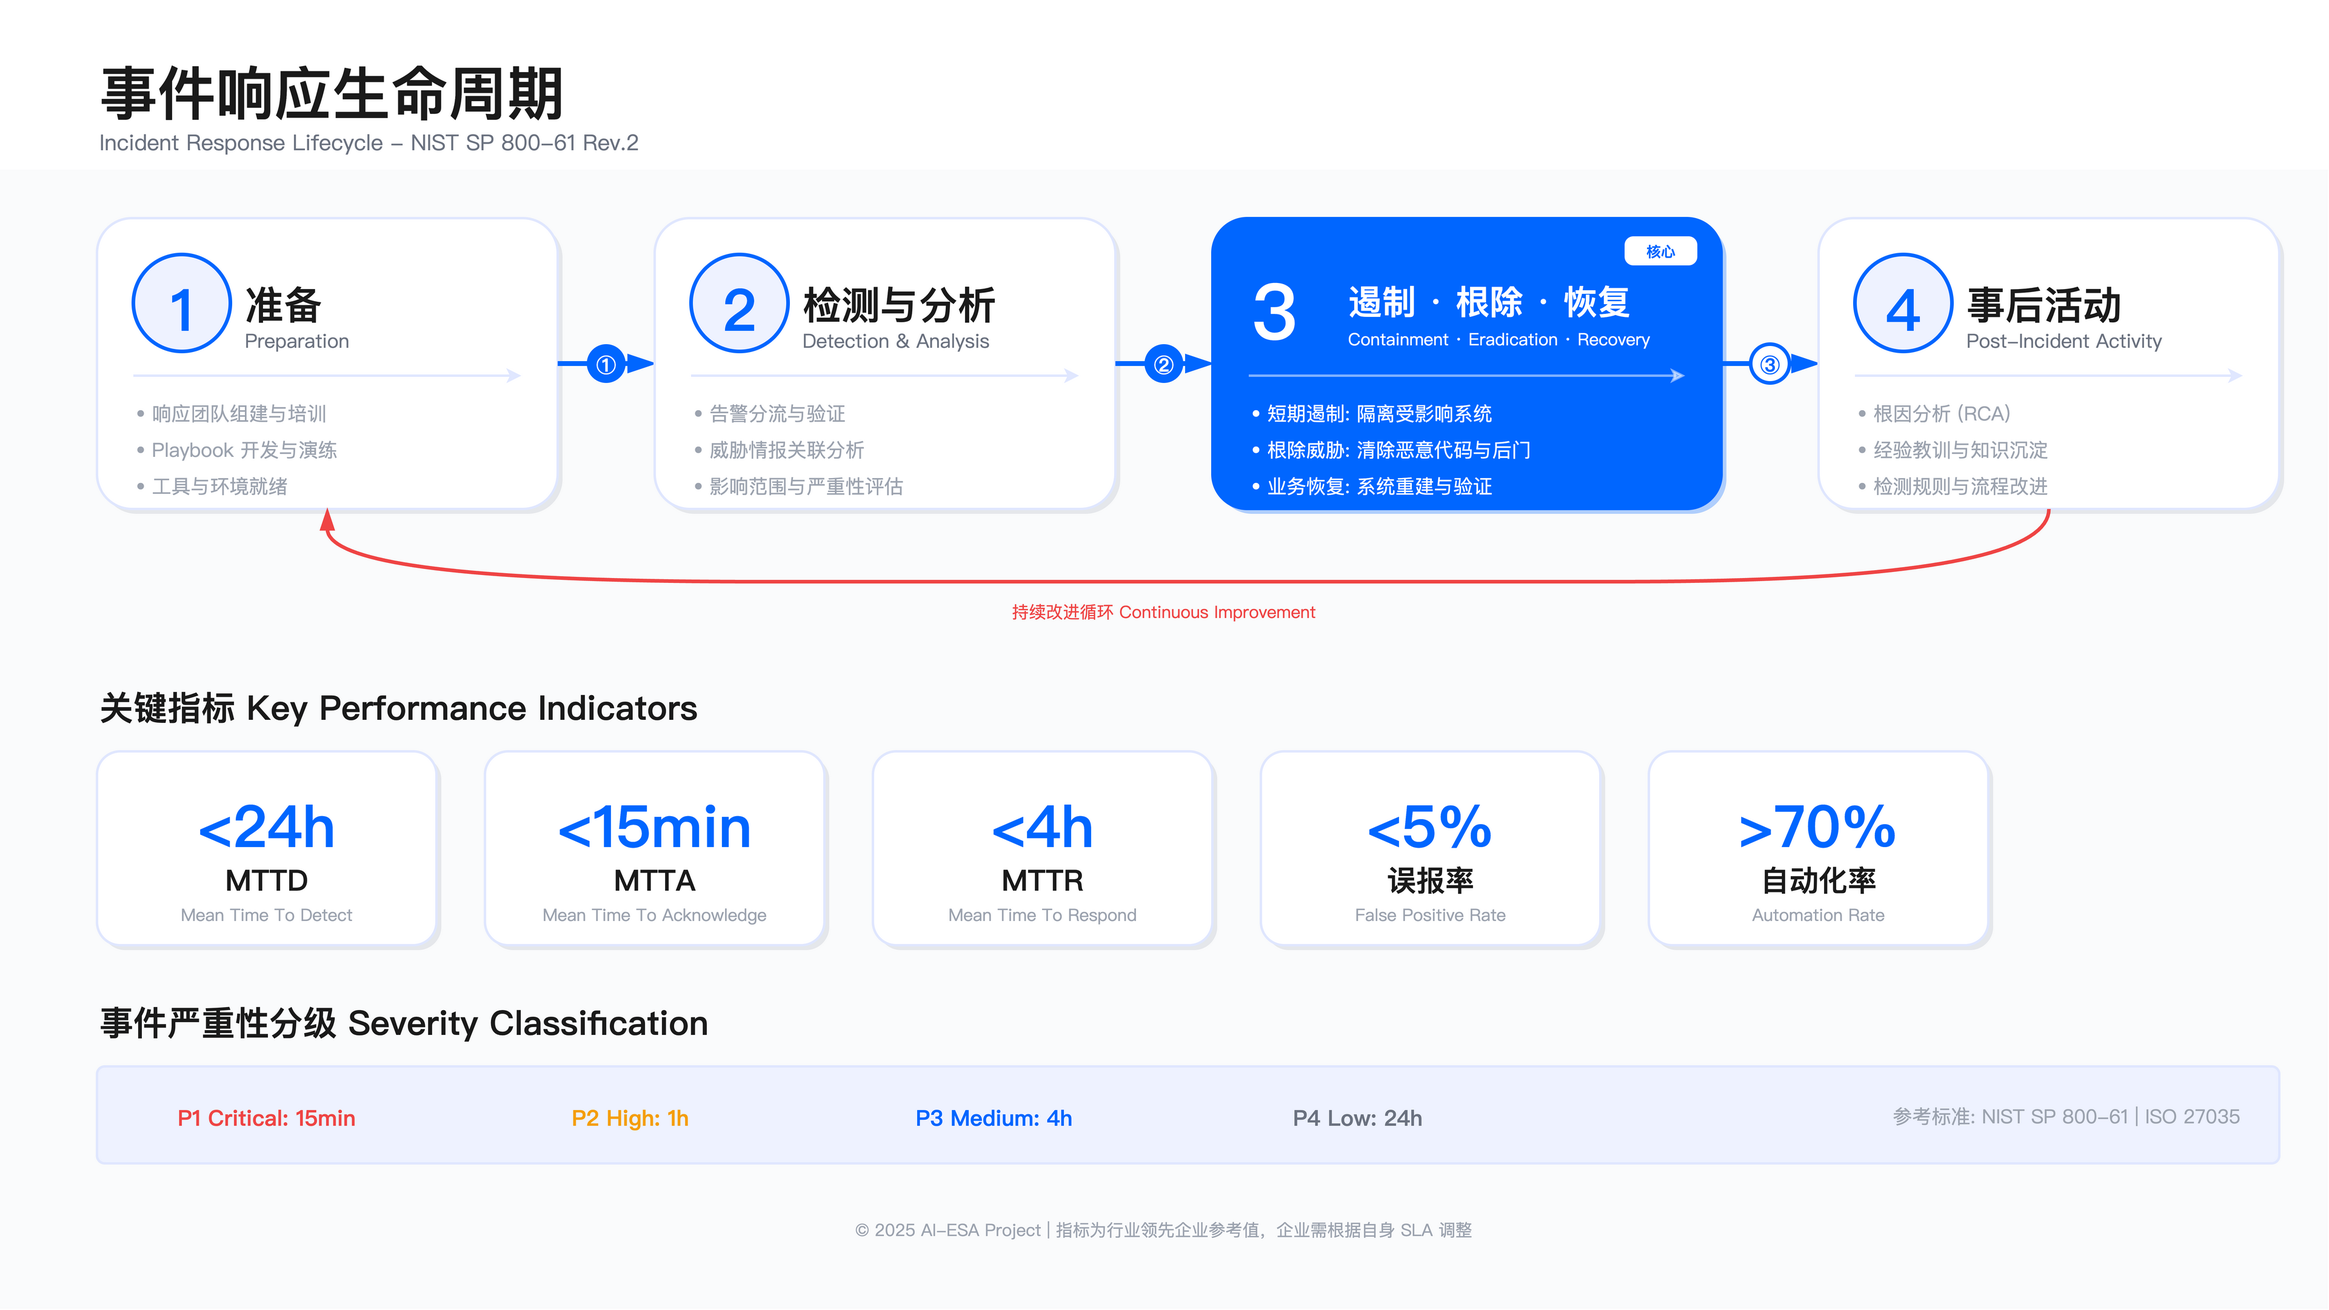
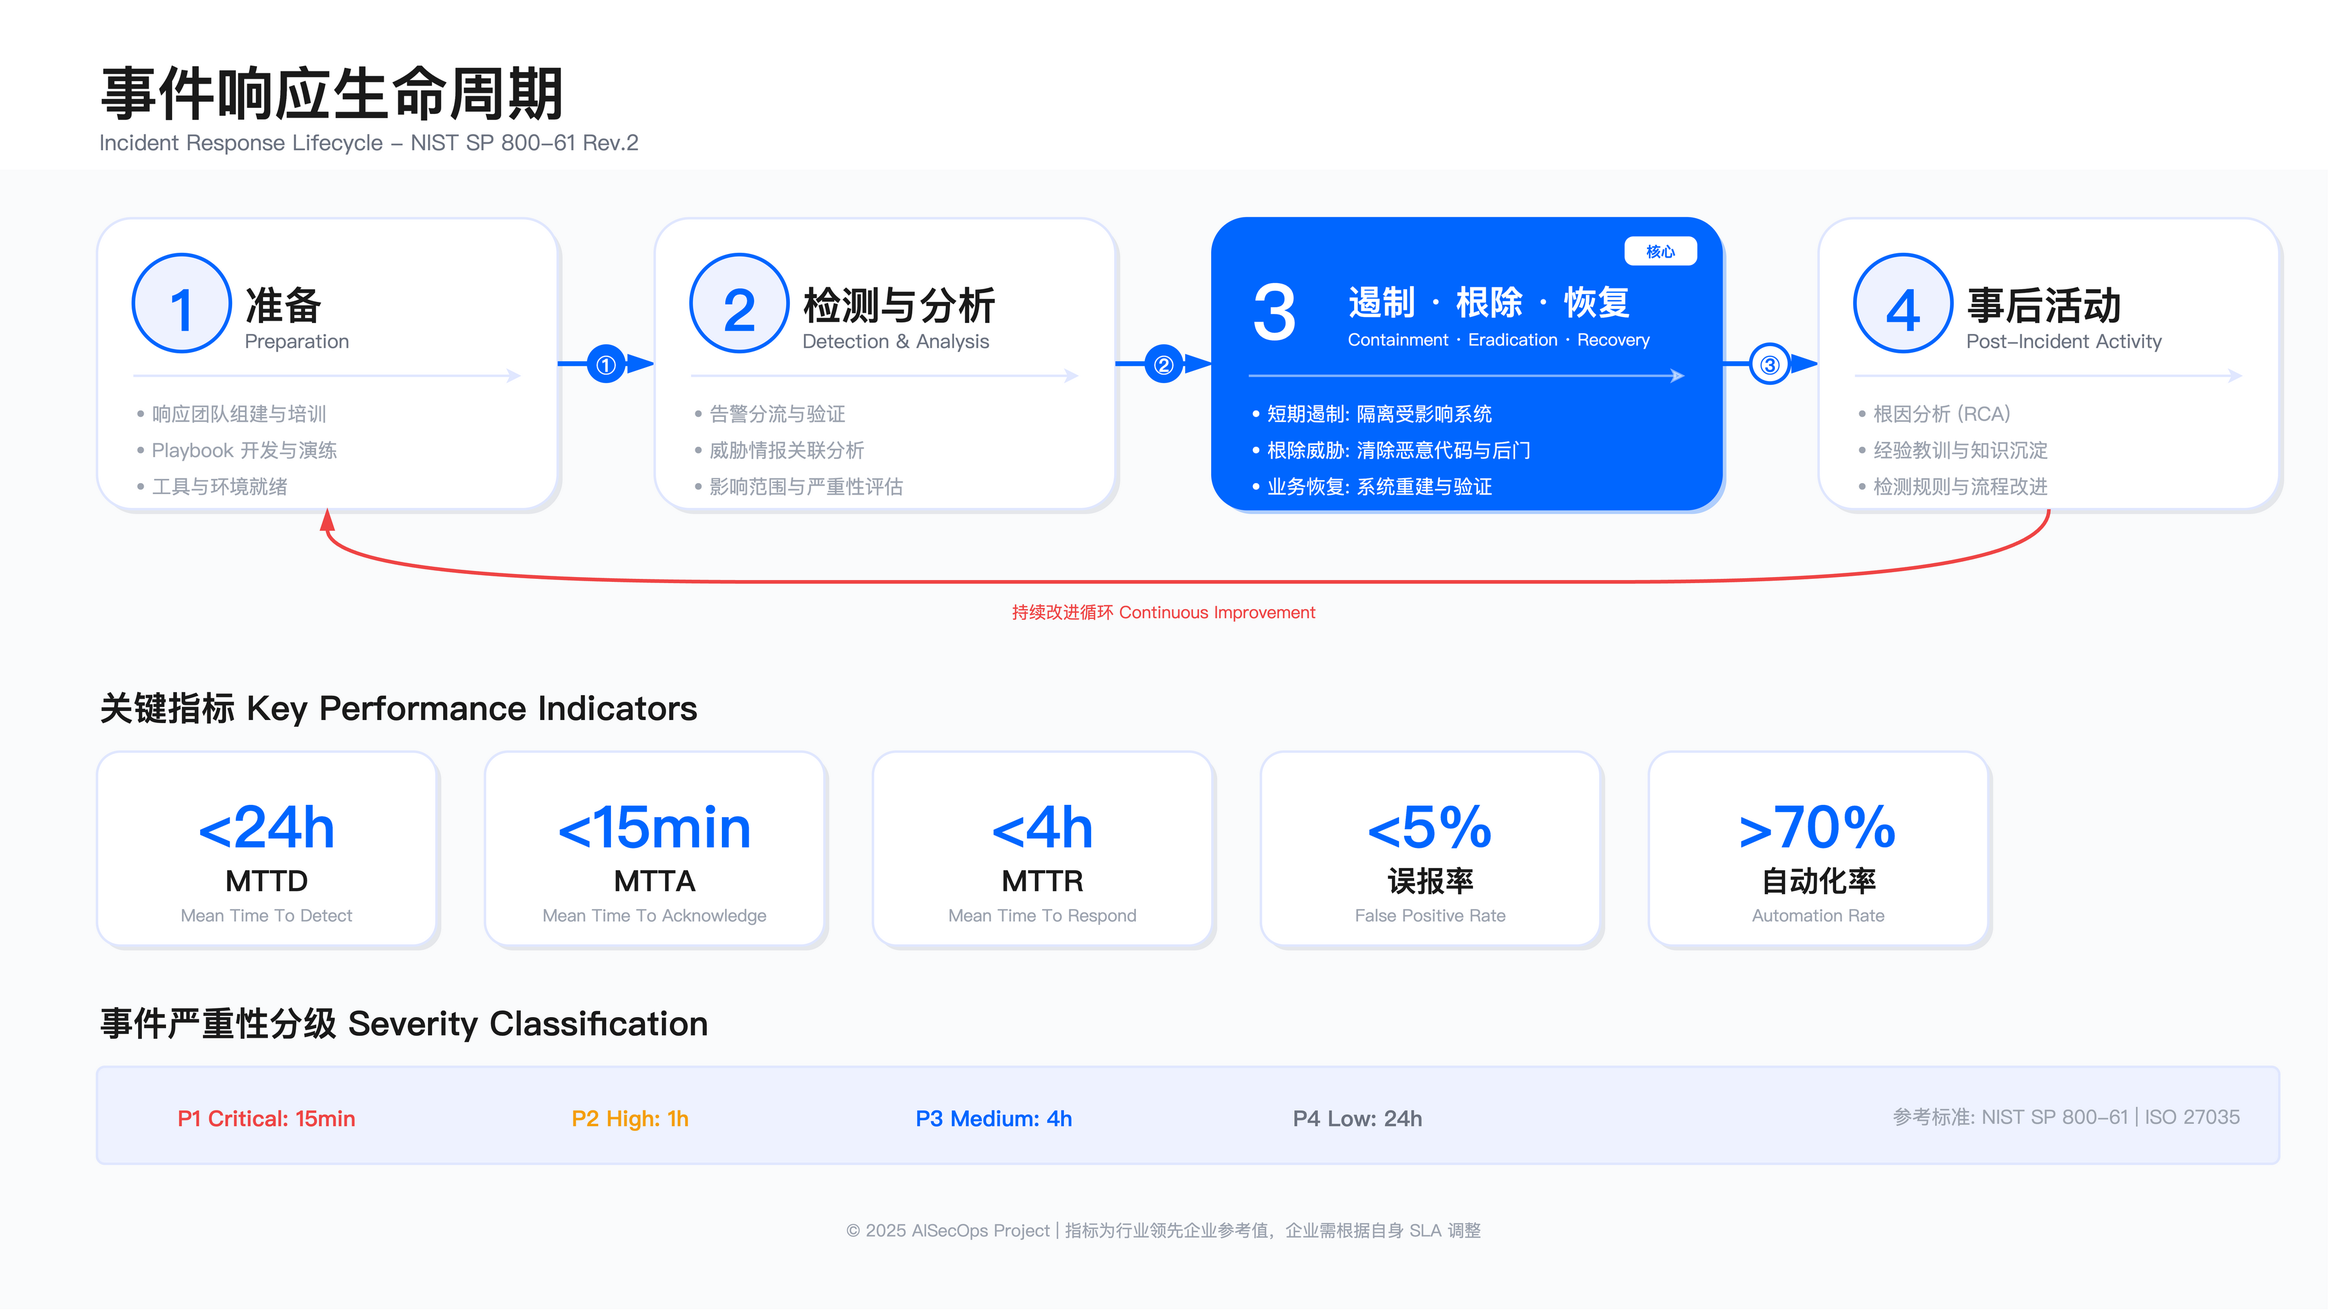
fix: 统一署名为 AISecOps，重导第 11 章图示

diff --git a/README.md b/README.md
@@ -2,7 +2,7 @@
 
 # AISecOps：AI 驱动的安全体系
 
-[![License: CC BY-NC-SA 4.0](https://img.shields.io/badge/License-CC%20BY--NC--SA%204.0-lightgrey.svg)](https://creativecommons.org/licenses/by-nc-sa/4.0/)
+[![License: CC BY-NC-SA 4.0](<https://img.shields.io/badge/License-CC%20BY--NC--SA%204.0-lightgrey.svg>)](https://creativecommons.org/licenses/by-nc-sa/4.0/)
 [![GitHub last commit](https://img.shields.io/github/last-commit/cybermaxluo/AISecOps)](https://github.com/cybermaxluo/AISecOps/commits/main)
 
 ---
@@ -17,10 +17,10 @@
 
 ## 快速开始
 
-- **[前言](./docs/前言.md)** - 这本书想解决什么问题、写给谁、怎么读、以及它的局限
+- **[前言](./docs/README.md)** - 这本书想解决什么问题、写给谁、怎么读、以及它的局限
 - [开始阅读](./chapters/) - 完整书籍内容
 - [完整目录](./docs/AISecOps_TOC.md) - 详细章节目录与阅读路径建议
-- **[附录 B：安全框架与标准映射](./docs/附录B_安全框架与标准映射.md)** - 本书章节 ↔ NIST CSF 2.0 / ISO 27001:2022 Annex A / CIS Controls v8.1 三向对照，**含诚实的覆盖缺口清单**
+- **[附录 B：安全框架与标准映射](./docs/附录B_安全框架与标准映射.md)** - 本书章节 ↔ NIST CSF 2.0 / ISO 27001:2022 Annex A / CIS Controls v8.1 框架对照
 - [术语表](./docs/GLOSSARY.md) - 专业术语速查（中英对照）
 - [关于作者](./docs/AUTHORS.md) - 作者团队介绍
 
@@ -55,7 +55,6 @@
 - [第12章](./chapters/第04部分_安全运营与防御能力/第12章_红队实践/)：红队实践——攻防演练、紫队协作
 - [第13章](./chapters/第04部分_安全运营与防御能力/第13章_业务风控与反欺诈/)：业务风控与反欺诈——账号、交易、内容、营销四线对抗
 
-
 ### [第5部分 身份、网络与业务连续性](./chapters/第05部分_身份网络与业务连续性/)
 
 企业安全里预算最大、事故最密集的三个域。
@@ -64,7 +63,7 @@
 - [第15章](./chapters/第05部分_身份网络与业务连续性/第15章_网络基础设施与终端安全/)：网络、基础设施与终端安全——网络分段、DMARC 落地、EDR 策略、出网治理、资产与暴露面
 - [第16章](./chapters/第05部分_身份网络与业务连续性/第16章_业务连续性与灾难恢复/)：业务连续性与灾难恢复——BIA、不可变备份、勒索软件端到端处置、危机指挥、演练与度量
 
-> 本地基础设施为主的读者，建议把这一部提到第2部分之前读——第14章的企业身份体系是 5.2 云 IAM 的本体。[详见第5部分 README](./chapters/第05部分_身份网络与业务连续性/README.md)。
+
 ### [第6部分 AI 驱动的安全创新](./chapters/第06部分_AI驱动的安全创新/)
 
 本部分系统化构建 AISecOps 方法论框架。
@@ -104,14 +103,14 @@
 
 一本讲"企业安全体系"的书如果不声明边界，读者会默认它什么都覆盖，然后在最需要的地方扑空。以下是本书**明确不覆盖**的领域，以及应当转向的权威资源：
 
-| 不覆盖 | 原因 | 建议转向 |
-| --- | --- | --- |
-| OT / ICS / SCADA 工业控制系统安全 | 工艺安全、确定性实时约束、停机代价模型与 IT 安全是两套方法论，混写会两边都不到位 | IEC 62443 系列、NIST SP 800-82 Rev.3、ISA-99 |
-| IoT 与嵌入式设备安全 | 同上，且硬件信任根、固件签名、低功耗约束需要独立篇幅 | ETSI EN 303 645、NIST IR 8259 系列、OWASP IoT Top 10 |
-| 车联网与自动驾驶安全 | 功能安全（ISO 26262）与信息安全的耦合是独立学科 | ISO/SAE 21434、UN R155/R156 |
-| 医疗设备安全 | 受 FDA/NMPA 独立监管框架约束 | FDA 上市前网络安全指南、IEC 81001-5-1 |
-| 密码算法的数学原理与密码分析 | 本书讲密码学的**工程使用**（选型、密钥管理、迁移），不讲算法设计与破解 | 《Serious Cryptography》、NIST SP 800-57 系列 |
-| 具体产品的部署手册 | 产品迭代快于图书生命周期；本书给的是选型判据与架构模式 | 各厂商官方文档 |
+| 不覆盖                            | 原因                                                                             | 建议转向                                             |
+| --------------------------------- | -------------------------------------------------------------------------------- | ---------------------------------------------------- |
+| OT / ICS / SCADA 工业控制系统安全 | 工艺安全、确定性实时约束、停机代价模型与 IT 安全是两套方法论，混写会两边都不到位 | IEC 62443 系列、NIST SP 800-82 Rev.3、ISA-99         |
+| IoT 与嵌入式设备安全              | 同上，且硬件信任根、固件签名、低功耗约束需要独立篇幅                             | ETSI EN 303 645、NIST IR 8259 系列、OWASP IoT Top 10 |
+| 车联网与自动驾驶安全              | 功能安全（ISO 26262）与信息安全的耦合是独立学科                                  | ISO/SAE 21434、UN R155/R156                          |
+| 医疗设备安全                      | 受 FDA/NMPA 独立监管框架约束                                                     | FDA 上市前网络安全指南、IEC 81001-5-1                |
+| 密码算法的数学原理与密码分析      | 本书讲密码学的**工程使用**（选型、密钥管理、迁移），不讲算法设计与破解     | 《Serious Cryptography》、NIST SP 800-57 系列        |
+| 具体产品的部署手册                | 产品迭代快于图书生命周期；本书给的是选型判据与架构模式                           | 各厂商官方文档                                       |
 
 本书覆盖的是**以 IT 为主体、云为重心的企业安全体系**——如果你的组织有大量工业现场、车队或医疗终端，本书的治理、运营、数据与 AI 部分仍然适用，但技术控制部分需要按上表补充专门资料。
 
@@ -123,23 +122,23 @@
 
 **内容截止日：2026 年 7 月。** 本书涉及的法规、标准与产品形态均以该时点的公开信息为准。安全领域演进快，引用前请核对当期版本。截至基准日，全书引用的主要标准版本如下：
 
-| 标准 / 框架 | 本书采用版本 | 备注 |
-| --- | --- | --- |
-| NIST CSF | 2.0 | 现行 |
-| NIST SP 800-53 | Rev.5（含 Release 5.2.0 更新） | 现行 |
-| NIST SP 800-207 / 800-218 (SSDF) | 现行版 | — |
-| ISO/IEC 27001 / 27002 | 2022 | 注意 2013 版的 A.5–A.18 分组编号已废止 |
-| ISO/IEC 27701 | 2025 | 已由 27001 扩展标准改为独立可认证标准 |
-| ISO/IEC 42001 | 2023 | **不是** EU AI Act 协调标准，不产生推定合规效力 |
-| PCI DSS | v4.0.1 | v4.0 已于 2024-12-31 退役；51 项未来日期要求自 2025-03-31 起强制 |
-| OWASP Top 10 | 2025 | A03 为软件供应链失效；SSRF 已不单列 |
-| OWASP Top 10 for LLM Applications | 2025 | 与 2023 版的编号对照见 18.3 |
-| OWASP Top 10 for Agentic Applications | 2026（ASI01–ASI10） | 见 18.3 末节 |
-| OWASP ASVS / MASVS | ASVS 5.0.0 / MASVS 2.1.0 | MASVS 自 v2.0 起已取消 L1/L2 分级 |
-| MITRE ATT&CK | v19 | — |
-| CIS Controls | v8.1 | — |
-| CSA CCM / CAIQ | v4.1 | 207 控制 / 17 域；v4.0.x 于 2028-01-31 退役 |
-| SLSA | v1.1 | v1.0 已被取代 |
+| 标准 / 框架                           | 本书采用版本                   | 备注                                                             |
+| ------------------------------------- | ------------------------------ | ---------------------------------------------------------------- |
+| NIST CSF                              | 2.0                            | 现行                                                             |
+| NIST SP 800-53                        | Rev.5（含 Release 5.2.0 更新） | 现行                                                             |
+| NIST SP 800-207 / 800-218 (SSDF)      | 现行版                         | —                                                               |
+| ISO/IEC 27001 / 27002                 | 2022                           | 注意 2013 版的 A.5–A.18 分组编号已废止                          |
+| ISO/IEC 27701                         | 2025                           | 已由 27001 扩展标准改为独立可认证标准                            |
+| ISO/IEC 42001                         | 2023                           | **不是** EU AI Act 协调标准，不产生推定合规效力            |
+| PCI DSS                               | v4.0.1                         | v4.0 已于 2024-12-31 退役；51 项未来日期要求自 2025-03-31 起强制 |
+| OWASP Top 10                          | 2025                           | A03 为软件供应链失效；SSRF 已不单列                              |
+| OWASP Top 10 for LLM Applications     | 2025                           | 与 2023 版的编号对照见 18.3                                      |
+| OWASP Top 10 for Agentic Applications | 2026（ASI01–ASI10）           | 见 18.3 末节                                                     |
+| OWASP ASVS / MASVS                    | ASVS 5.0.0 / MASVS 2.1.0       | MASVS 自 v2.0 起已取消 L1/L2 分级                                |
+| MITRE ATT&CK                          | v19                            | —                                                               |
+| CIS Controls                          | v8.1                           | —                                                               |
+| CSA CCM / CAIQ                        | v4.1                           | 207 控制 / 17 域；v4.0.x 于 2028-01-31 退役                      |
+| SLSA                                  | v1.1                           | v1.0 已被取代                                                    |
 
 > 时效提示：EU CRA 的漏洞与严重事件报告义务自 2026-09-11 起适用、主要义务自 2027-12-11 起适用。
 >
@@ -169,13 +168,13 @@
 
 ## 作者团队
 
-| 姓名               | 角色            | 研究方向                                                                | 联系方式                                                                                                                                               |
-| ------------------ | --------------- | ----------------------------------------------------------------------- | ------------------------------------------------------------------------------------------------------------------------------------------------------ |
+| 姓名               | 角色            | 研究方向                                                                | 联系方式                                                                                                                                                   |
+| ------------------ | --------------- | ----------------------------------------------------------------------- | ---------------------------------------------------------------------------------------------------------------------------------------------------------- |
 | 罗棋琛 Max Luo     | 主编 / 联合作者 | 企业安全体系建设<br />应用安全<br />DevSecOps<br />AI for Cybersecurity | 📧 186616@gmail.com<br />💻[GitHub](https://github.com/cybermaxluo) <br /> 🔗 [LinkedIn](https://linkedin.com/in/max-luo) <br /> 💬 微信公众号：白帽子罗棋琛 |
-| 潘禺涵 Caleb Pan   | 联合作者        | AI for Cybersecurity<br /> 机器学习                                     | 📧 now_here@yeah.net<br /> 💻[GitHub](https://github.com/dreambb)                                                                                         |
-| 孙冲 Mori Sun      | 联合作者        | 应用安全<br />DevSecOps <br />  Web3 security <br /> red team           | 📧 moriii22@outlook.com<br /> 💻[GitHub](https://github.com/WhiteLee03)                                                                                   |
-| 黄奕霖 Shiro Huang | 联合作者        | 红队攻防对抗<br />AI for Cybersecurity                                  | 📧 crystalnuts9@gmail.com<br />  💻[GitHub](https://github.com/AibaAsaki)                                                                                 |
-| 陈进 Sayid Chen    | 联合作者        | 移动应用安全<br />AI 移动应用安全                                       | 📧 1052756668@qq.com<br /> 💻[GitHub](https://github.com/DSFLY100)<br /> 💬 微信公众号：从黑客到保安                                                       |
+| 潘禺涵 Caleb Pan   | 联合作者        | AI for Cybersecurity<br /> 机器学习                                     | 📧 now_here@yeah.net<br /> 💻[GitHub](https://github.com/dreambb)                                                                                           |
+| 孙冲 Mori Sun      | 联合作者        | 应用安全<br />DevSecOps <br />  Web3 security <br /> red team           | 📧 moriii22@outlook.com<br /> 💻[GitHub](https://github.com/WhiteLee03)                                                                                     |
+| 黄奕霖 Shiro Huang | 联合作者        | 红队攻防对抗<br />AI for Cybersecurity                                  | 📧 crystalnuts9@gmail.com<br />  💻[GitHub](https://github.com/AibaAsaki)                                                                                   |
+| 陈进 Sayid Chen    | 联合作者        | 移动应用安全<br />AI 移动应用安全                                       | 📧 1052756668@qq.com<br /> 💻[GitHub](https://github.com/DSFLY100)<br /> 💬 微信公众号：从黑客到保安                                                        |
 
 详细介绍：[docs/AUTHORS.md](./docs/AUTHORS.md)
 
@@ -219,23 +218,6 @@
 
 <div align="center">
 
-<table>
-<tr>
-<td align="center" width="50%">
-<img src="./assets/qr-wechat-group.jpg" alt="微信交流群二维码" width="200"/><br/>
-<b>加入微信交流群</b><br/>
-<i>扫码加入，与安全从业者交流</i>
-</td>
-<td align="center" width="50%">
-<img src="./assets/qr-wechat-donate.jpg" alt="微信收款码" width="200"/><br/>
-<b>请作者喝一杯咖啡 ☕</b><br/>
-<i>您的支持是持续创作的动力</i>
-</td>
-</tr>
-</table>
-
-</div>
-
 ---
 
 ## ⭐ Star History
@@ -245,9 +227,3 @@
 ---
 
 <div align="center">
-
-**Made with ❤ by Security Community | 由全球安全社区共同创作**
-
-**© 2025-2026 AISecOps Project. Licensed under CC BY-NC-SA 4.0**
-
-</div>

diff --git a/assets/diagrams/V6_Design_Prompt.md b/assets/diagrams/V6_Design_Prompt.md
@@ -505,10 +505,10 @@ SYS (Support Systems): 支持系统
 ```yaml
 版本: V6
 创建日期: 2025-10-30
-设计师: AI-ESA Design Team
+设计师: AISecOps Design Team
 设计理念: 极简主义 + 扁平化2.0
 适用场景: 企业级架构图、技术白皮书、专业出版物
-授权: 可复用于所有AI-ESA项目相关图表
+授权: 可复用于所有 AISecOps 项目相关图表
 ```
 
 ---
